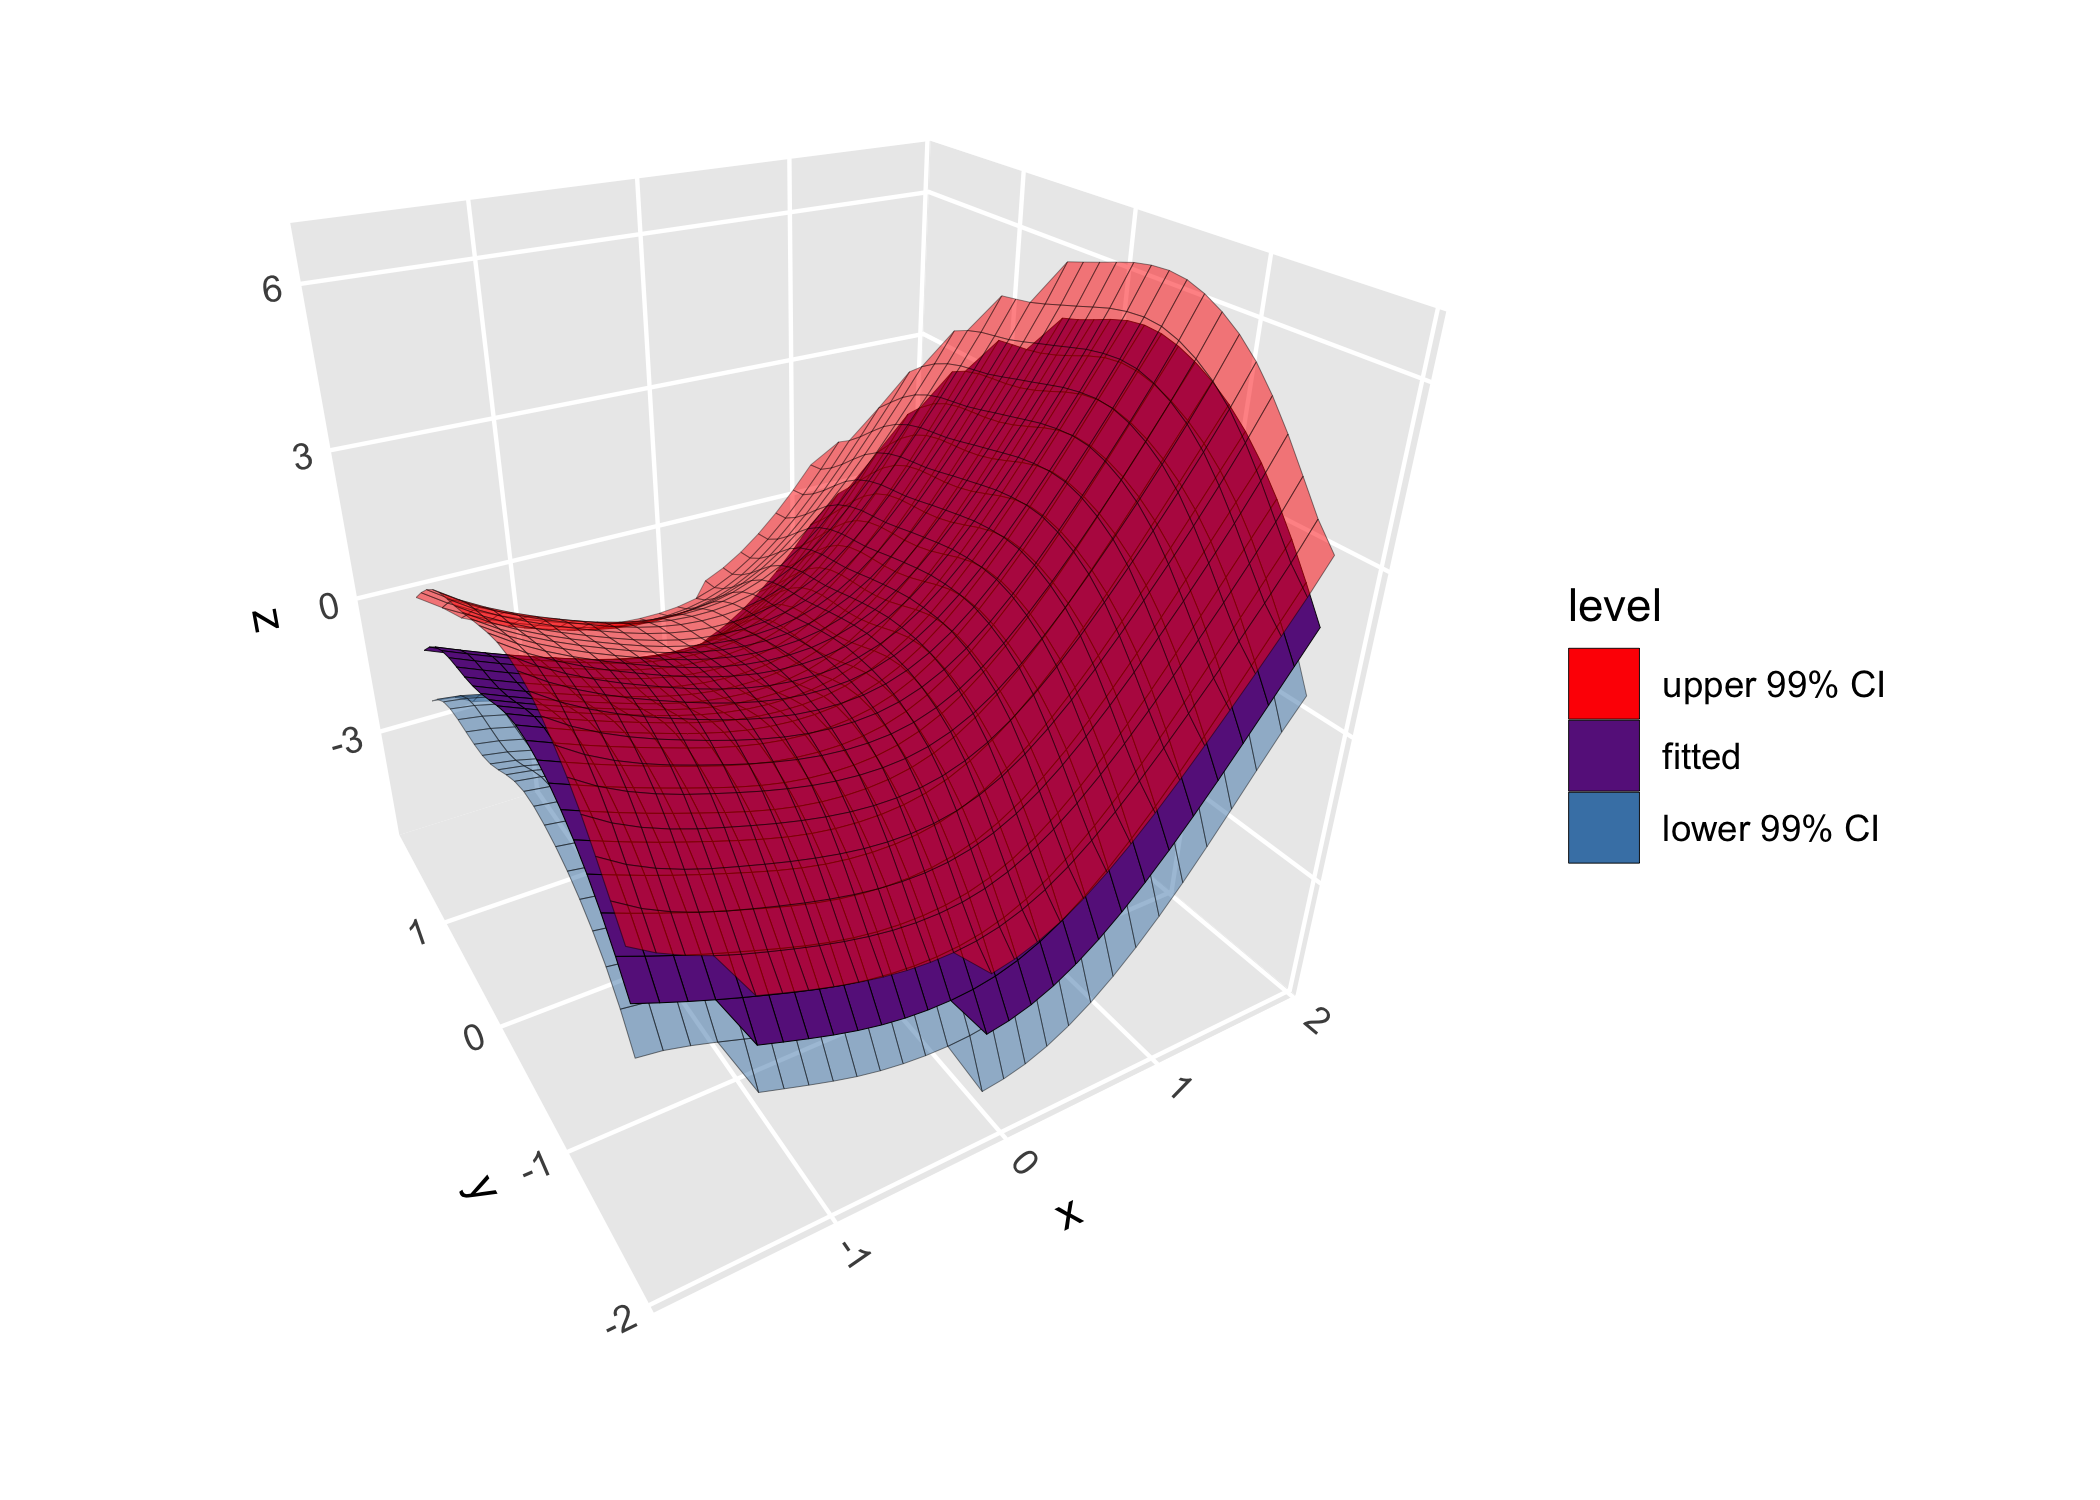
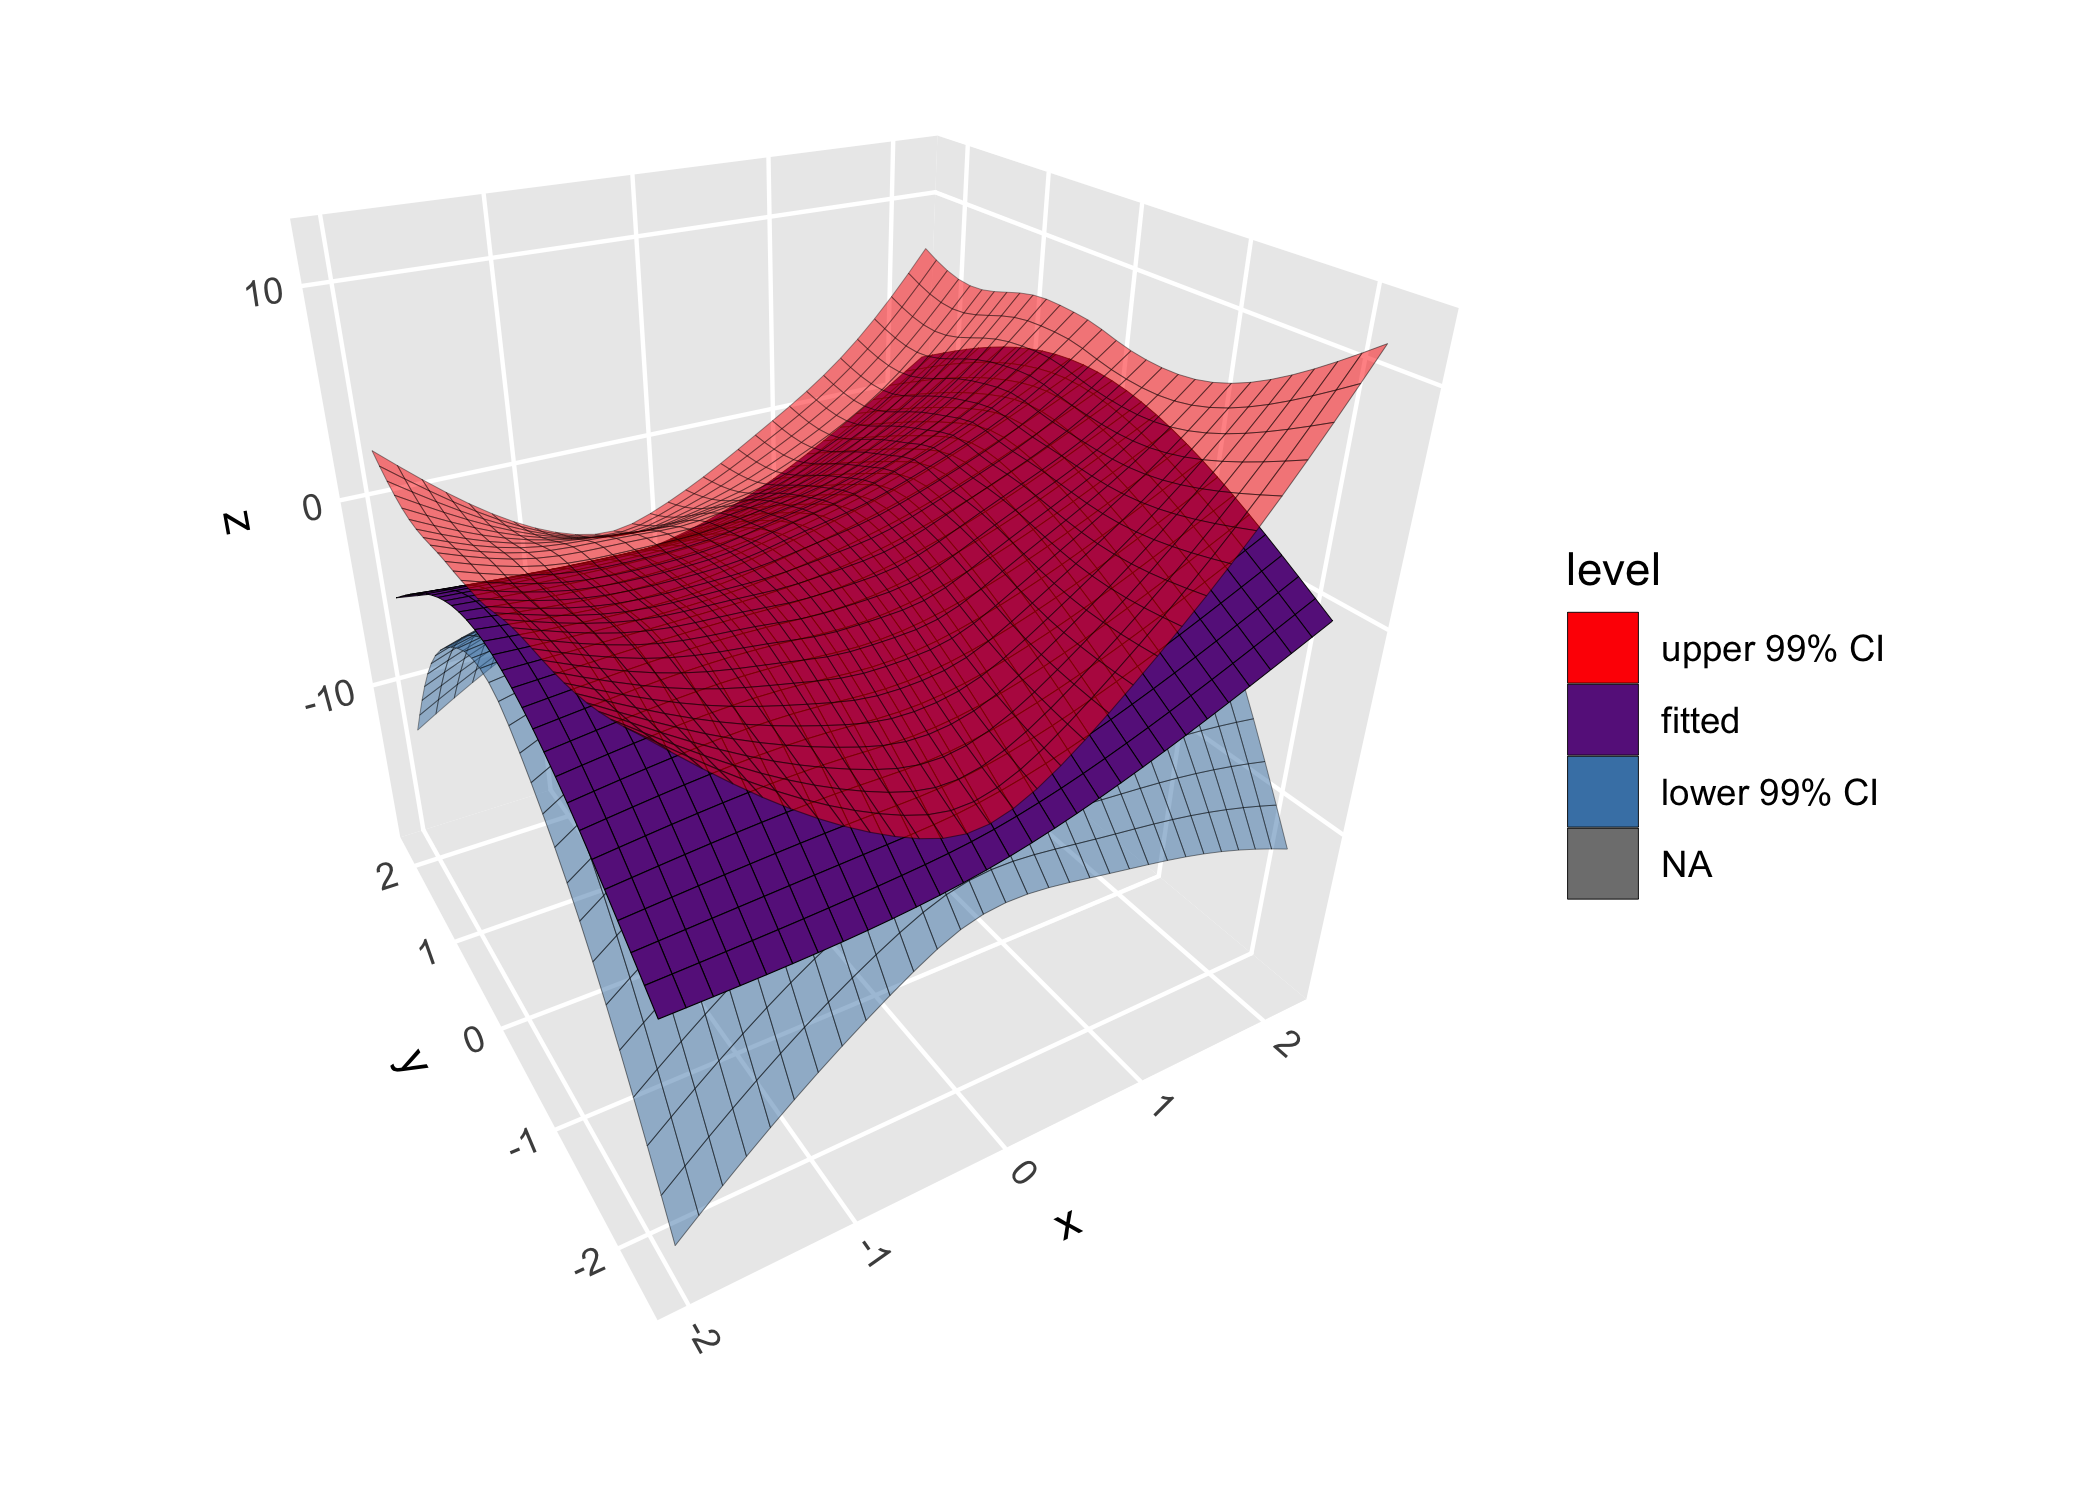
add hull clipping for stat_smooth_3d

diff --git a/README.md b/README.md
@@ -97,14 +97,14 @@ fitted model surface using `stat_smooth_3d()`:
 ``` r
 # Generate scattered 3D data
 set.seed(123)
-d <- data.frame(x = runif(50, -2, 2),
-                y = runif(50, -2, 2))
+d <- data.frame(x = rnorm(50),
+                y = rnorm(50))
 d$z <- d$x + d$x^2 - d$y^2 + rnorm(50)
 
 # Plot GAM fit with uncertainty layers
 ggplot(d, aes(x, y, z)) + 
       stat_smooth_3d(aes(fill = after_stat(level)),
-                     method = "gam", fomula = z ~ te(x, y),
+                     method = "gam", formula = z ~ te(x, y),
                      se = TRUE, level = 0.99, color = "black") +
       scale_fill_manual(values = c("red", "darkorchid4", "steelblue")) +
       coord_3d()
